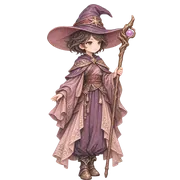
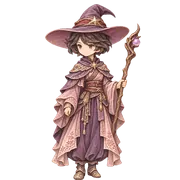
絵: 吟遊詩人・男の立ち絵（転職の立ち絵80枚がそろう）・駒4枚の作り直し（基本職16枚がそろう）
- 駒: 剣士・女（新しい人物）・魔道士・女・盗賊・女・僧侶・女
- 僧侶・女は背景が市松模様の絵で届いたので、ふちにつながった市松の色だけを透明にした

Changed region(s): [[0.25, 0.0, 0.7778, 1.0]]

diff --git a/scripts/art/build_art.py b/scripts/art/build_art.py
@@ -201,7 +201,7 @@ FACES.update({
 })
 # 穴埋め（fill_holes）をしない元画像。重装衛士は、細い槍を戻すため切り抜きを直している（.cut の絵を
 # scripts/art/fix_thin_cut.py で作り直し済み）。槍と足の間の背景が穴として埋まるので、穴埋めをしない
-NO_FILL_HOLES = {'bulwark-female', 'bulwark-male', 'lancer-male', 'lancer-female', 'archer-male', 'archer-female', 'tamer-male', 'tamer-female', 'archmage-male', 'archmage-female', 'hexer-male', 'hexer-female', 'brawler-male', 'brawler-female', 'phantomThief-male', 'phantomThief-female', 'phantomTamer-male', 'phantomTamer-female', 'shadow-female', 'dragoon-male', 'dragoon-female', 'holyKing-male', 'holyKing-female', 'beastMaster-male', 'beastMaster-female', 'bowSaint-male', 'bowSaint-female', 'greatSage-male', 'hadesLord-male', 'hadesLord-female', 'grandThief-male', 'grandThief-female', 'fistKing-male', 'fistKing-female', 'ninja-female', 'phantomKing-male', 'phantomKing-female', 'necromancer-male', 'necromancer-female', 'fistSaint-male', 'fistSaint-female', 'gambler-male', 'gambler-female', 'machinist-male', 'machinist-female', 'petTrainer-male', 'petTrainer-female', 'timeMage-male', 'timeMage-female', 'bard-female', 'dragonVein-male', 'dragonVein-female'}
+NO_FILL_HOLES = {'bulwark-female', 'bulwark-male', 'lancer-male', 'lancer-female', 'archer-male', 'archer-female', 'tamer-male', 'tamer-female', 'archmage-male', 'archmage-female', 'hexer-male', 'hexer-female', 'brawler-male', 'brawler-female', 'phantomThief-male', 'phantomThief-female', 'phantomTamer-male', 'phantomTamer-female', 'shadow-female', 'dragoon-male', 'dragoon-female', 'holyKing-male', 'holyKing-female', 'beastMaster-male', 'beastMaster-female', 'bowSaint-male', 'bowSaint-female', 'greatSage-male', 'hadesLord-male', 'hadesLord-female', 'grandThief-male', 'grandThief-female', 'fistKing-male', 'fistKing-female', 'ninja-female', 'phantomKing-male', 'phantomKing-female', 'necromancer-male', 'necromancer-female', 'fistSaint-male', 'fistSaint-female', 'gambler-male', 'gambler-female', 'machinist-male', 'machinist-female', 'petTrainer-male', 'petTrainer-female', 'timeMage-male', 'timeMage-female', 'bard-female', 'bard-male', 'dragonVein-male', 'dragonVein-female'}
 # 表に無い職は、この値（x=0.5 は頭の位置を自動で探す）
 FACE_DEFAULT = (0.5, 0.085, 0.17)
 

diff --git a/docs/art/prompts-chatgpt-pets-pieces.md b/docs/art/prompts-chatgpt-pets-pieces.md
@@ -402,7 +402,7 @@
 
 - 2026-11-14 オーナーの決定: 駒は基本職の16人分だけ。転職しても基本職の駒を使う。
 - 一度ちびキャラ・チェスの駒の案を試したが、前の ChatGPT の駒の絵柄に戻した（地図・敵の駒になじむため）。
-- 残り: 剣士・女（新しい人物）・魔道士・女・盗賊・女・僧侶・女の4枚（作り直し）。中位から下の一覧は、もう使わない。
+- 2026-11-14: 残りの4枚（剣士・女＝新しい人物・魔道士・女・盗賊・女・僧侶・女）も届き、16枚そろった。中位から下の一覧は、もう使わない。
 
 ### ① 最初に貼る決まり（駒）
 添付: 試しの駒（`piece-warrior-male.png`）と、地図の村（`見本2-地図の村.png`）
